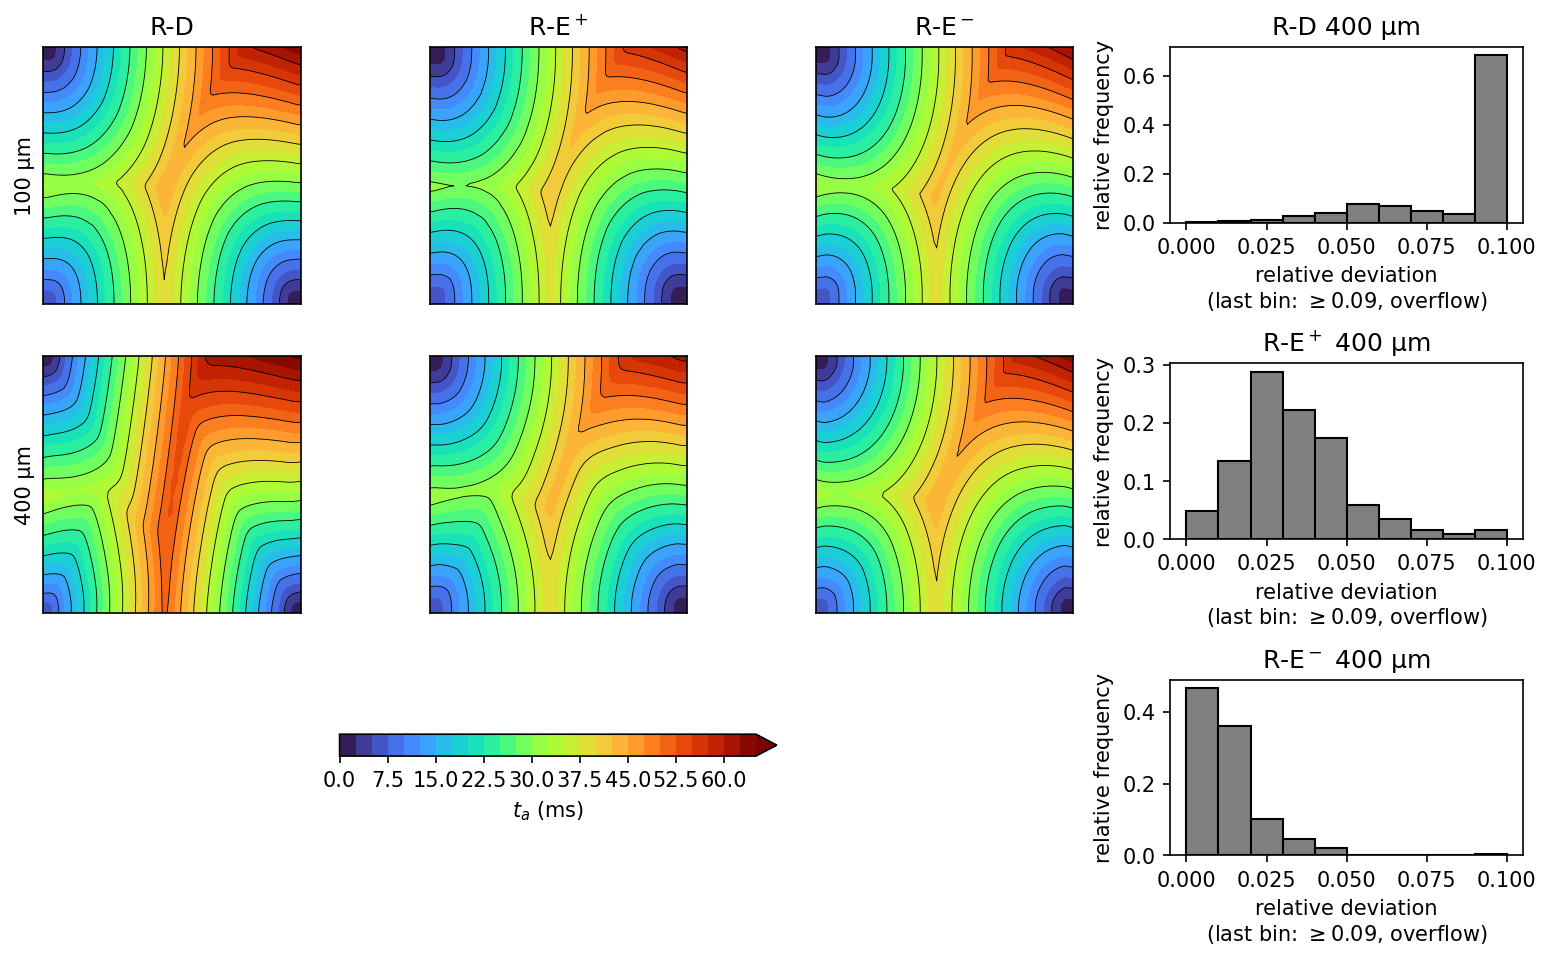
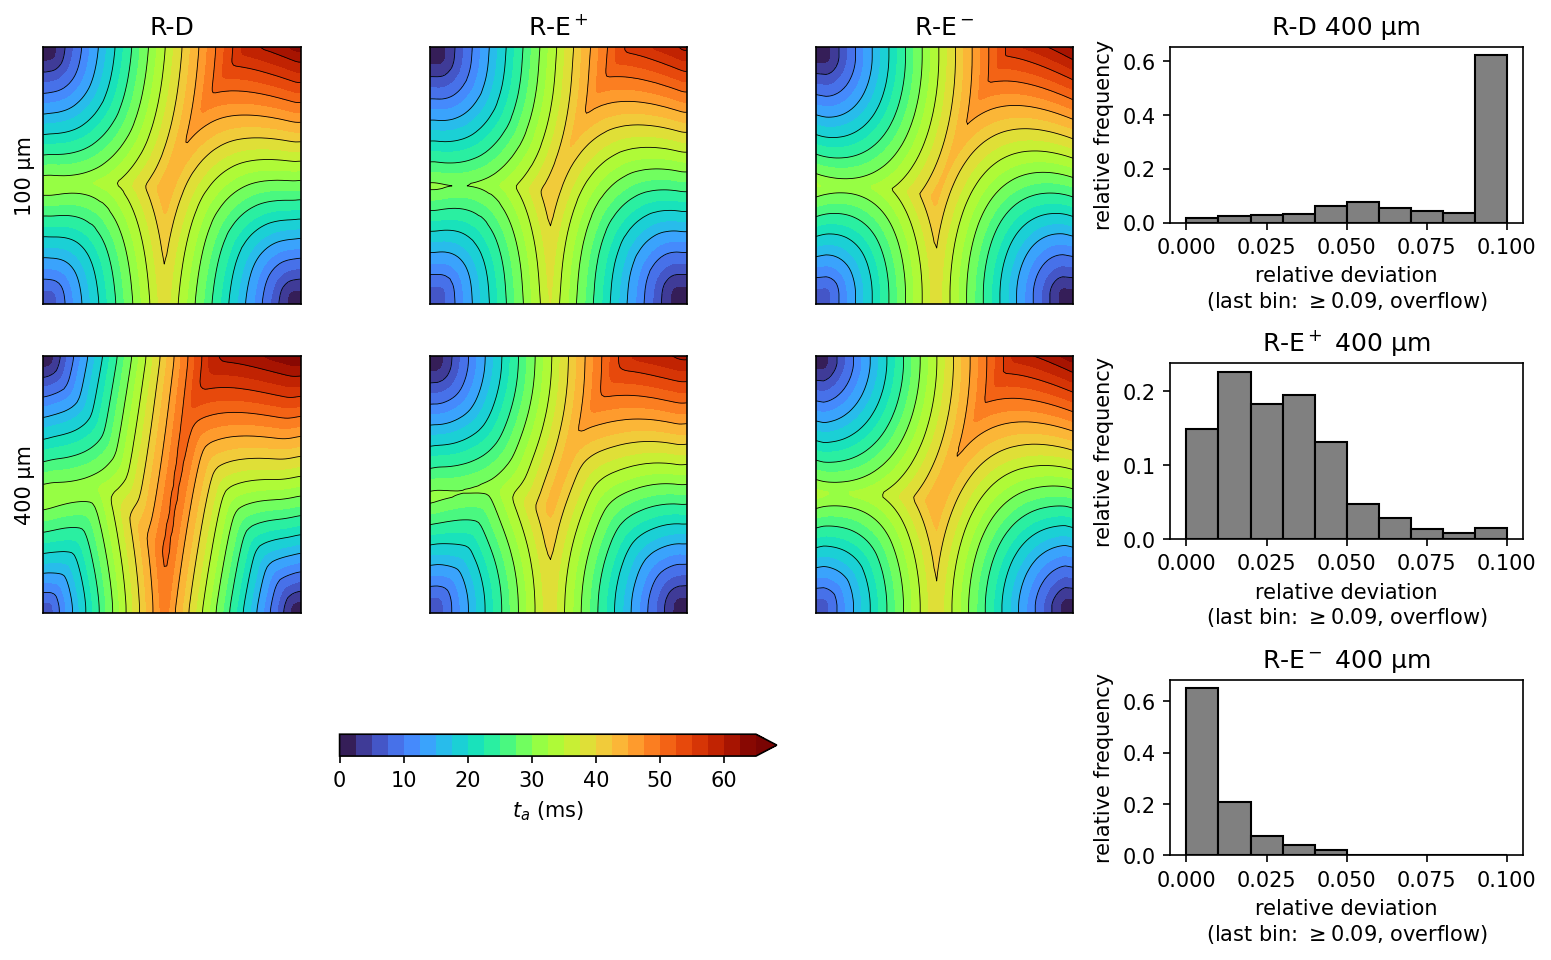
docs: bath-loaded wedge benchmark figures (Neic 2017 Figs. 2, 4, 5, 7)

diff --git a/scripts/reaction_eikonal_wedge_figures.py b/scripts/reaction_eikonal_wedge_figures.py
@@ -1,4 +1,4 @@
-"""Figures 2, 4 and 5 of Neic et al. 2017 from the results of reaction_eikonal_wedge.py.
+"""Figures 2, 4, 5 and 7 of Neic et al. 2017 from the results of reaction_eikonal_wedge.py.
 
 python scripts/reaction_eikonal_wedge_figures.py \
     --results results-reaction-eikonal --out docs/_static
@@ -73,7 +73,14 @@ def fig2(results, ref_dx, coarse_dx, out):
             if col == 0:
                 ax.set_ylabel(f"{dx * 1000:g} µm")
     if im is not None:
-        fig.colorbar(im, ax=fig.axes, location="bottom", shrink=0.4, label="$t_a$ (ms)")
+        fig.colorbar(
+            im,
+            ax=fig.axes,
+            location="bottom",
+            shrink=0.4,
+            label="$t_a$ (ms)",
+            ticks=range(0, 70, 10),
+        )
     sub = grid[:, 3].subgridspec(3, 1, hspace=0.8)
     for i, model in enumerate(("rd", "re+", "re-")):
         d = load(results, model, coarse_dx)
@@ -189,9 +196,113 @@ def fig5(results, ref_dx, coarse_dx, out):
     fig.savefig(out / "reaction_eikonal_fig5.png", dpi=150, bbox_inches="tight")
 
 
+def load_phie(results, model, dx):
+    path = results / f"phie_{model}_dx{dx:g}.npz"
+    return dict(np.load(path)) if path.is_file() else None
+
+
+def check_electrode(results, models, dxs):
+    """P_E is the mid-plane grid point [50, 100]: compare phie there with the electrogram"""
+    for model in models:
+        for dx in dxs:
+            d, run = load_phie(results, model, dx), load(results, model, dx)
+            if d is None or run is None or not run["electrogram"].size:
+                continue
+            for t in (40, 320):
+                i = int(np.argmin(np.abs(run["electrogram_t"] - t)))
+                print(
+                    f"P_E check {model} {dx * 1000:g} um t={t} ms: phie[50, 100] = "
+                    f"{d[f'phie_t{t}'][50, 100]:.3f} mV, electrogram({run['electrogram_t'][i]:.1f}"
+                    f" ms) = {run['electrogram'][i]:.3f} mV",
+                )
+
+
+def fig7(results, ref_dx, coarse_dx, out):
+    panels = [
+        ("rd", ref_dx, "R-D"),
+        ("re+", ref_dx, "R-E$^+$"),
+        ("re+", coarse_dx, f"R-E$^+$ {coarse_dx * 1000:g} µm"),
+        ("re-", ref_dx, "R-E$^-$"),
+    ]
+    phie = {(m, dx): load_phie(results, m, dx) for m, dx, _ in panels}
+    runs = {(m, dx): load(results, m, dx) for m, dx, _ in panels}
+    ref = phie[("rd", ref_dx)]
+    fig = plt.figure(figsize=(17, 9))
+    outer = fig.add_gridspec(1, 2, width_ratios=[3.2, 1], wspace=0.12)
+    left = outer[0].subgridspec(4, 4, height_ratios=[1, 0.55, 1, 0.55], hspace=1.0, wspace=0.1)
+    for block, t in enumerate((40, 320)):
+        key = f"phie_t{t}"
+        values = ref[key] if ref is not None and key in ref else None
+        lo, hi = np.nanpercentile(values, [1, 99]) if values is not None else (-10.0, 10.0)
+        levels = np.linspace(lo, hi, 26)
+        cs = None
+        for col, (m, dx, label) in enumerate(panels):
+            ax = fig.add_subplot(left[2 * block, col])
+            ax.set_xticks([])
+            ax.set_yticks([])
+            d = phie[(m, dx)]
+            if d is None or key not in d:
+                ax.set_title(f"{label}: missing", fontsize=9)
+                continue
+            cs = ax.contourf(
+                d["grid_x"],
+                d["grid_y"],
+                d[key],
+                levels=levels,
+                cmap="jet",
+                extend="both",
+            )
+            ax.set_aspect("equal")
+            ax.set_title(f"{label}, t = {t} ms", fontsize=10)
+        if cs is not None:
+            fig.colorbar(cs, ax=fig.axes[-4:], label=r"$\phi_e$ [mV]", shrink=0.9)
+        for col, m in enumerate(("re+", "re-")):
+            ax = fig.add_subplot(left[2 * block + 1, 2 * col : 2 * col + 2])
+            d = phie[(m, ref_dx)]
+            if values is None or d is None or key not in d:
+                ax.set_axis_off()
+                continue
+            deviation = np.abs(d[key] - values).ravel()
+            histogram(
+                ax,
+                deviation,
+                np.linspace(0, 3, 13),
+                f"{LABEL[m]}, t = {t} ms",
+                "absolute deviation [mV]",
+            )
+            if col == 1:
+                ax.set_ylabel("")
+            q90, q95 = np.nanquantile(deviation, [0.9, 0.95])
+            print(f"fig7 t={t} ms {m}: 90% < {q90:.3f} mV, 95% < {q95:.3f} mV")
+    right = outer[1].subgridspec(4, 1, hspace=0.45)
+    rd = runs[("rd", ref_dx)]
+    first = None
+    for row, (m, dx, label) in enumerate(panels):
+        ax = fig.add_subplot(right[row], sharex=first, sharey=first)
+        first = first or ax
+        if rd is not None and m != "rd" and rd["electrogram"].size:
+            ax.plot(rd["electrogram_t"], rd["electrogram"], color="0.7", lw=2.5, label="R-D")
+        d = runs[(m, dx)]
+        if d is not None and d["electrogram"].size:
+            ax.plot(d["electrogram_t"], d["electrogram"], lw=1, label=label)
+            print(
+                f"fig7 electrogram {label}: min {d['electrogram'].min():.2f}, "
+                f"max {d['electrogram'].max():.2f} mV",
+            )
+        ax.axhline(0.0, color="k", lw=0.5)
+        ax.set_xlim(0, 400)
+        ax.set_ylabel(r"$\phi_e(P_E)$ [mV]")
+        ax.set_title(label, fontsize=10)
+        ax.legend(fontsize=8, loc="upper right")
+    ax.set_xlabel("t [ms]")
+    fig.savefig(out / "reaction_eikonal_fig7.png", dpi=150, bbox_inches="tight")
+    plt.close(fig)
+    check_electrode(results, ("rd", "re+", "re-"), sorted({dx for _, dx, _ in panels}))
+
+
 def main():
     p = argparse.ArgumentParser()
-    p.add_argument("--results", type=Path, default=Path("results-reaction-eikonal"))
+    p.add_argument("--results", type=Path, default=Path("results-reaction-eikonal-bath"))
     p.add_argument("--out", type=Path, default=Path("docs/_static"))
     p.add_argument("--dxs", type=float, nargs="+", default=[0.1, 0.2, 0.4])
     args = p.parse_args()
@@ -200,6 +311,7 @@ def main():
     fig2(args.results, ref_dx, coarse_dx, args.out)
     fig4(args.results, args.dxs, ref_dx, coarse_dx, args.out)
     fig5(args.results, ref_dx, coarse_dx, args.out)
+    fig7(args.results, ref_dx, coarse_dx, args.out)
 
 
 if __name__ == "__main__":

diff --git a/demos/reaction_eikonal_wedge_electrograms.py b/demos/reaction_eikonal_wedge_electrograms.py
@@ -150,7 +150,35 @@ if comm.rank == 0:
 #
 # ![Fig. 7](../docs/_static/reaction_eikonal_fig7.png)
 #
-# RESULTS-PARAGRAPH (written in Task 10 from the measured deviations; compare with the paper: 90% of
-# the R-E$^+$ and 95% of the R-E$^-$ potentials within 0.25 mV and 0.75 mV of R-D at 40 ms, R-E$^+$
-# electrograms virtually indistinguishable from R-D also at 400 µm, and R-E$^-$ overestimating the
-# late repolarization deflection).
+# Left: $\phi_e$ on the mid-plane at 40 and 320 ms for R-D, R-E$^+$ (100 and 400 µm) and R-E$^-$,
+# with histograms of the deviation from R-D at 100 µm; right: the electrogram at $P_E$. At 40 ms,
+# 90% (95%) of the R-E$^+$ potentials are within 2.4 mV (8.9 mV) of R-D and 90% (95%) of the
+# R-E$^-$ potentials within 1.2 mV (1.8 mV); at 320 ms the numbers are 0.22 mV (0.30 mV) for
+# R-E$^+$ and 2.3 mV (3.5 mV) for R-E$^-$. The paper reports 0.25 mV and 0.75 mV for 90% of R-E$^+$
+# and 95% of R-E$^-$ at 40 ms. Our R-E$^+$ tail at 40 ms is dominated by the thin depolarization
+# front: the 2 ms earlier eikonal activation (see the activation demo) probably shifts the steep
+# $\phi_e$ front, which gives large point-wise differences in a narrow band; the bulk of the map
+# agrees (median 0.50 mV). The electrograms of R-E$^+$ lie on top of R-D, also at 400 µm
+# (peak-to-peak 4.17 and 4.31 mV against 4.15 mV for R-D); R-E$^-$ has a deeper negative peak
+# ($-2.50$ against $-2.03$ mV) and a late deflection that peaks 1.5 ms later and is slightly
+# larger than R-D (2.19 against 2.13 mV), and it stays higher until the end (1.25 against 0.61 mV
+# at 395 ms), qualitatively as in the paper. As a check, the maps at $P_E$ equal the electrogram samples (for
+# example $-1.395$ mV for R-D at 40 ms).
+#
+# The amplitudes differ from the paper's Fig. 7C, where the electrogram at $P_E$ ranges from about
+# $-8$ to $+5$ mV during depolarization and reaches about 5 mV near 300 ms; ours peaks at about
+# $\pm 2$ mV (R-D: $-2.03$ and $2.13$ mV), although our $\phi_e$ maps cover about the same color range
+# as the paper's (about $-7$ to $15$ mV against $-10$ to $15$ mV). The solver chain is exact (the
+# potential at $P_E$ agrees to $10^{-10}$ between three independent routes), so the difference is in
+# the setup, which the paper only partly specifies. We measured the sensitivity with R-D at 400 µm
+# and other electrodes: $P_E$ at the center of the endocardial face, 1 mm bath: peak-to-peak
+# 4.2 mV (range $-2.3$ to $1.9$ mV); $P_E$ moved 0.5 mm into the bath: 3.7 mV; a point on the top
+# face $z = 5$ mm above the endocardial layer ($x = 22.5$ mm): 6.1 mV ($-2.6$ to $3.6$ mV); points on the
+# endocardial face closer to the S3 corner ($y = 3$ and $6.25$ mm): 7.0 and 6.5 mV ($-4.5$ to $2.6$
+# mV). With a 2 mm instead of 1 mm bath, $P_E$ gives 4.0 mV and the late deflection falls from
+# 1.9 to 1.2 mV. So the amplitude is sensitive to the electrode position (by a factor of up to 1.7
+# in the depolarization peaks) and to the bath size, and the unspecified placement of $P_E$ and bath
+# size in the paper can plausibly explain part of the difference, though not all: no electrode
+# we tried reaches the paper's $-8$ mV or the 5 mV late deflection. We do not know which of
+# these, or of other unstated details (for example the potential reference, which we take as
+# zero mean over the bath box), accounts for the rest.

diff --git a/demos/reaction_eikonal_wedge_activation.py b/demos/reaction_eikonal_wedge_activation.py
@@ -241,8 +241,20 @@ if comm.rank == 0:
 #
 # ![Fig. 2](../docs/_static/reaction_eikonal_fig2.png)
 #
+# Against R-D at 100 µm, the median relative deviation of the activation time is 13% (90% of the
+# points below 25%) for R-D at 400 µm, 2.7% (90% below 5.2%) for R-E$^+$ at 400 µm and 0.8% (90%
+# below 2.5%) for R-E$^-$ at 400 µm; at 200 µm it is 1.5% for R-D. R-E$^+$ at 200 µm has a median
+# of 7.4%, larger than at 400 µm, because its activation is systematically early: with the bath
+# layer the 100 µm R-D wave is slower than the eikonal wave at the measured velocities, which are
+# unchanged. The size of the augmentation layer matters little: with three rings at every
+# resolution (instead of a constant 0.3 mm) the 400 µm R-D median would be 10.9% and R-E$^+$
+# 3.0%. In the 100 µm panels R-E$^+$ shows a small kink in the contours at the left edge.
+#
 # The upstrokes at $P_E$ (cf. the paper's Fig. 4): R-D at 200 and 400 µm activates late, the R-E
 # models do not; R-E$^-$ has a faster upstroke and a larger overshoot because it ignores
-# diffusion.
+# diffusion. The upstroke at $P_E$ occurs at 31.3 ms (R-D), 29.1 ms (R-E$^+$) and 30.5 ms
+# (R-E$^-$) at 100 µm, and at 33.0, 30.0 and 31.2 ms at 400 µm: the R-E times hardly depend on the
+# mesh, whereas R-D is delayed by 1.7 ms. The R-E$^+$ and R-E$^-$ times differ from R-D by about
+# 2 ms and 0.8 ms (100 µm).
 #
 # ![Fig. 4](../docs/_static/reaction_eikonal_fig4.png)

diff --git a/demos/reaction_eikonal_wedge_repolarization.py b/demos/reaction_eikonal_wedge_repolarization.py
@@ -94,6 +94,9 @@ if comm.rank == 0:
 # with the normalised spatial derivative (dotted). Bottom: histograms of the absolute deviation
 # $|v_{R-D} - v_{R-E}|$ at $t_{r50}$ over the mid-plane (paper Eq. 34). Right: action potentials
 # at the centres of the endocardial and M layers. As in the paper, R-E$^+$ matches R-D closely,
-# while R-E$^-$ has steps at the layer boundaries and larger deviations.
+# while R-E$^-$ has steps at the layer boundaries and larger deviations. Quantitatively, over the
+# mid-plane the absolute deviation from R-D at 100 µm has a median of 0.7 mV for R-E$^+$ at 400 µm
+# (90% of the points below 2.2 mV, 95% below 2.4 mV) and 2.0 mV for R-E$^-$ (90% below 11.5 mV,
+# 95% below 16.7 mV, dominated by the layer-boundary steps).
 #
 # ![Fig. 5](../docs/_static/reaction_eikonal_fig5.png)
